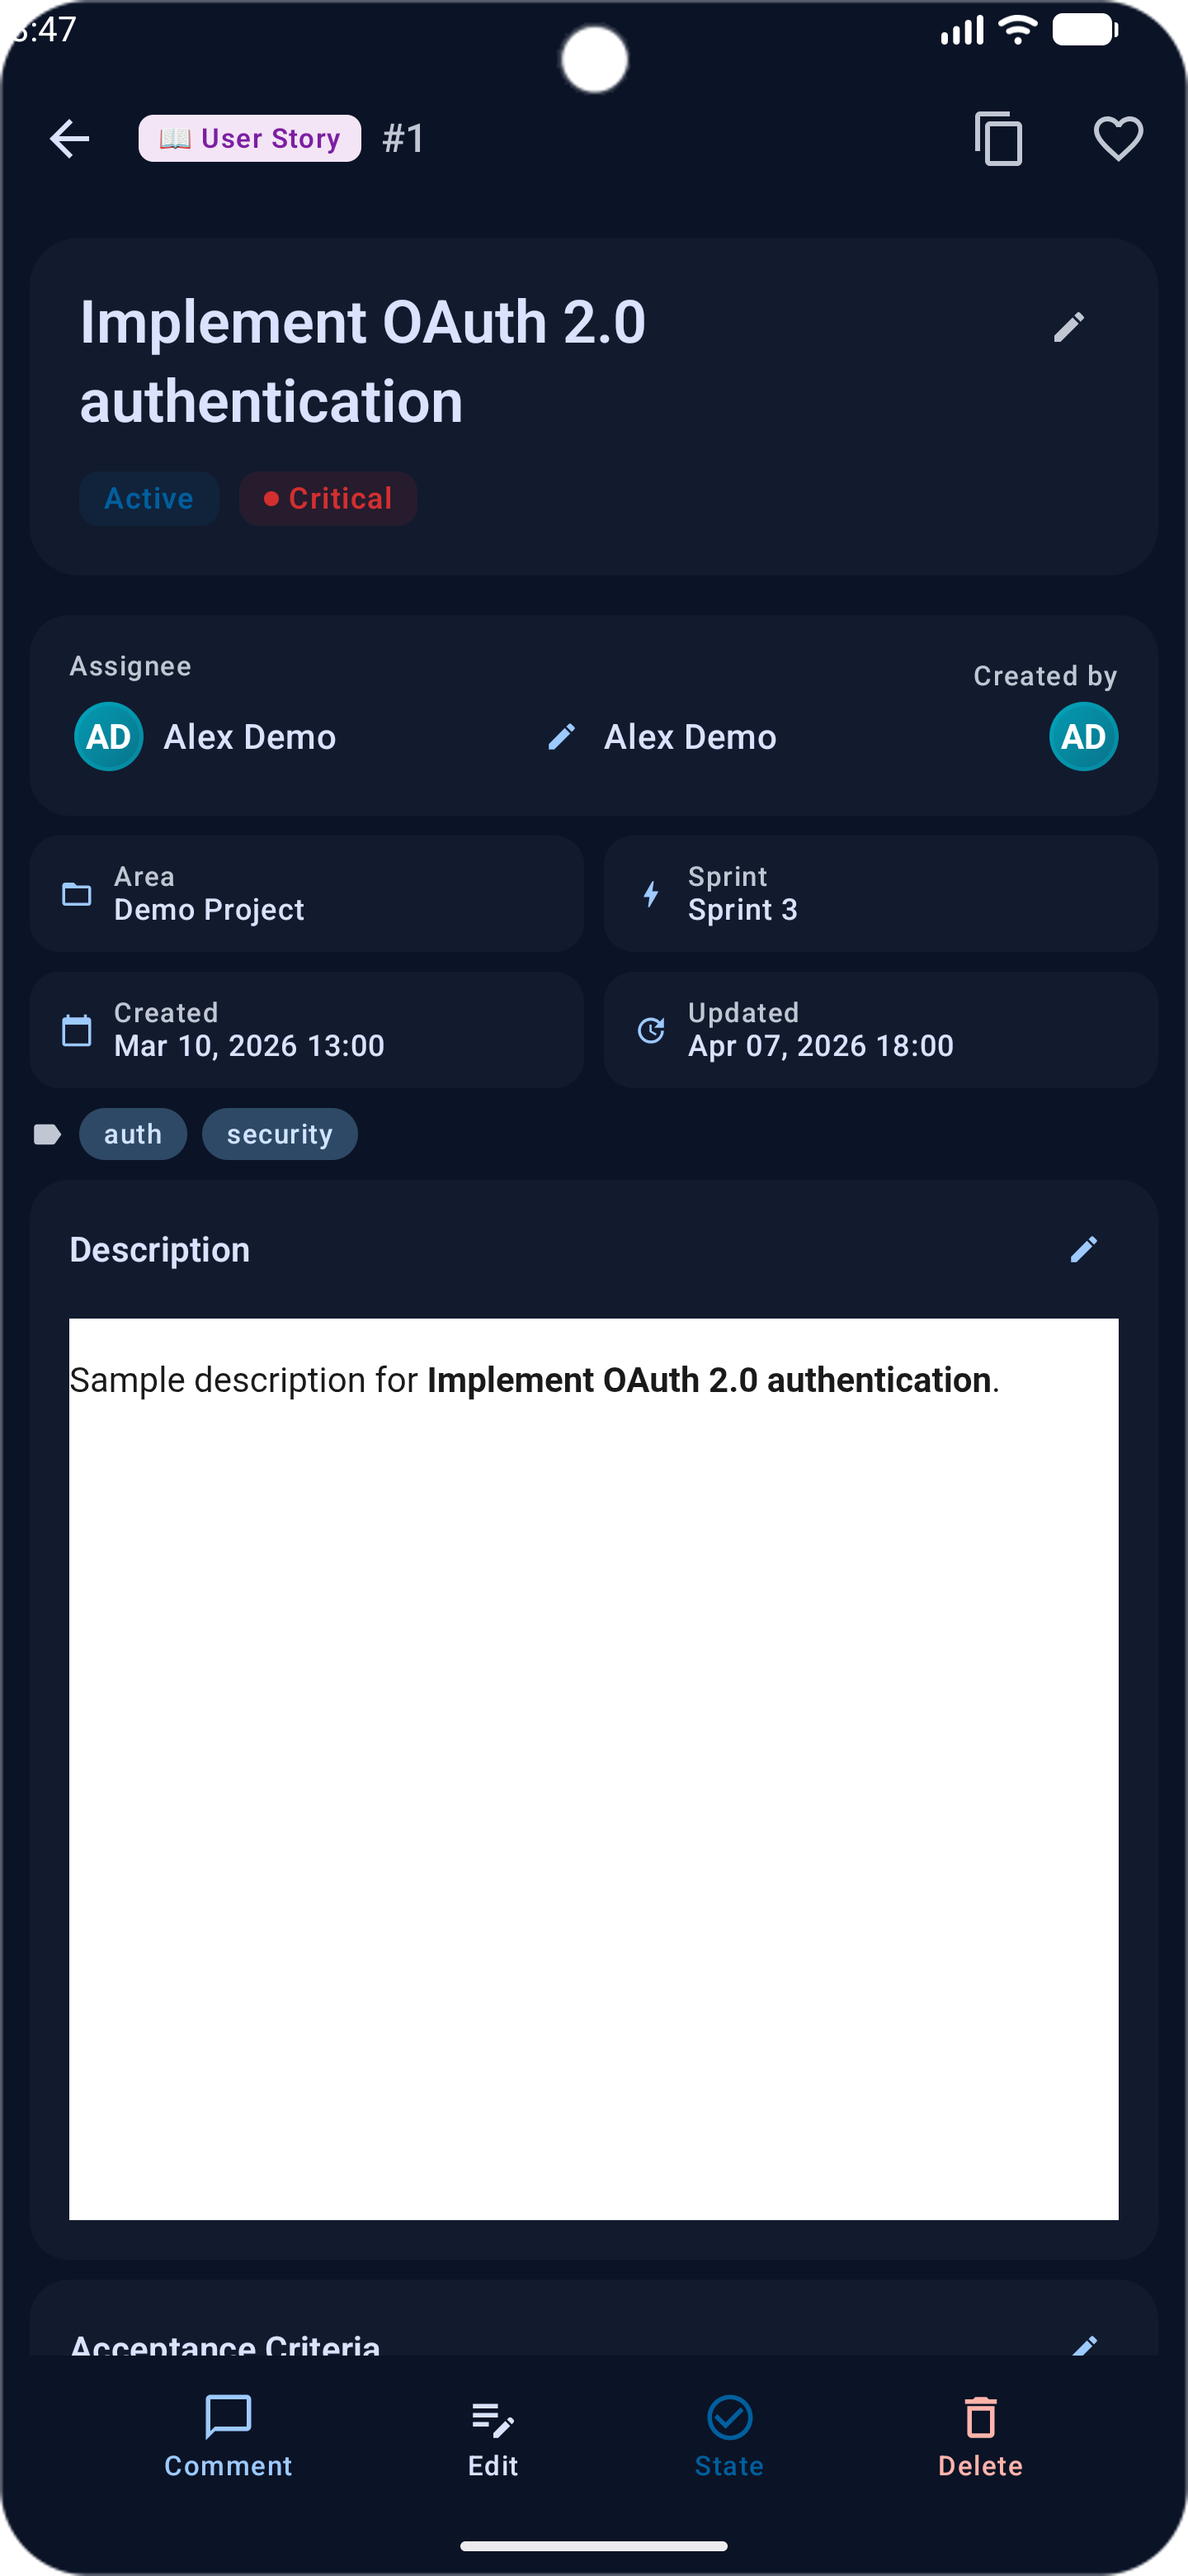
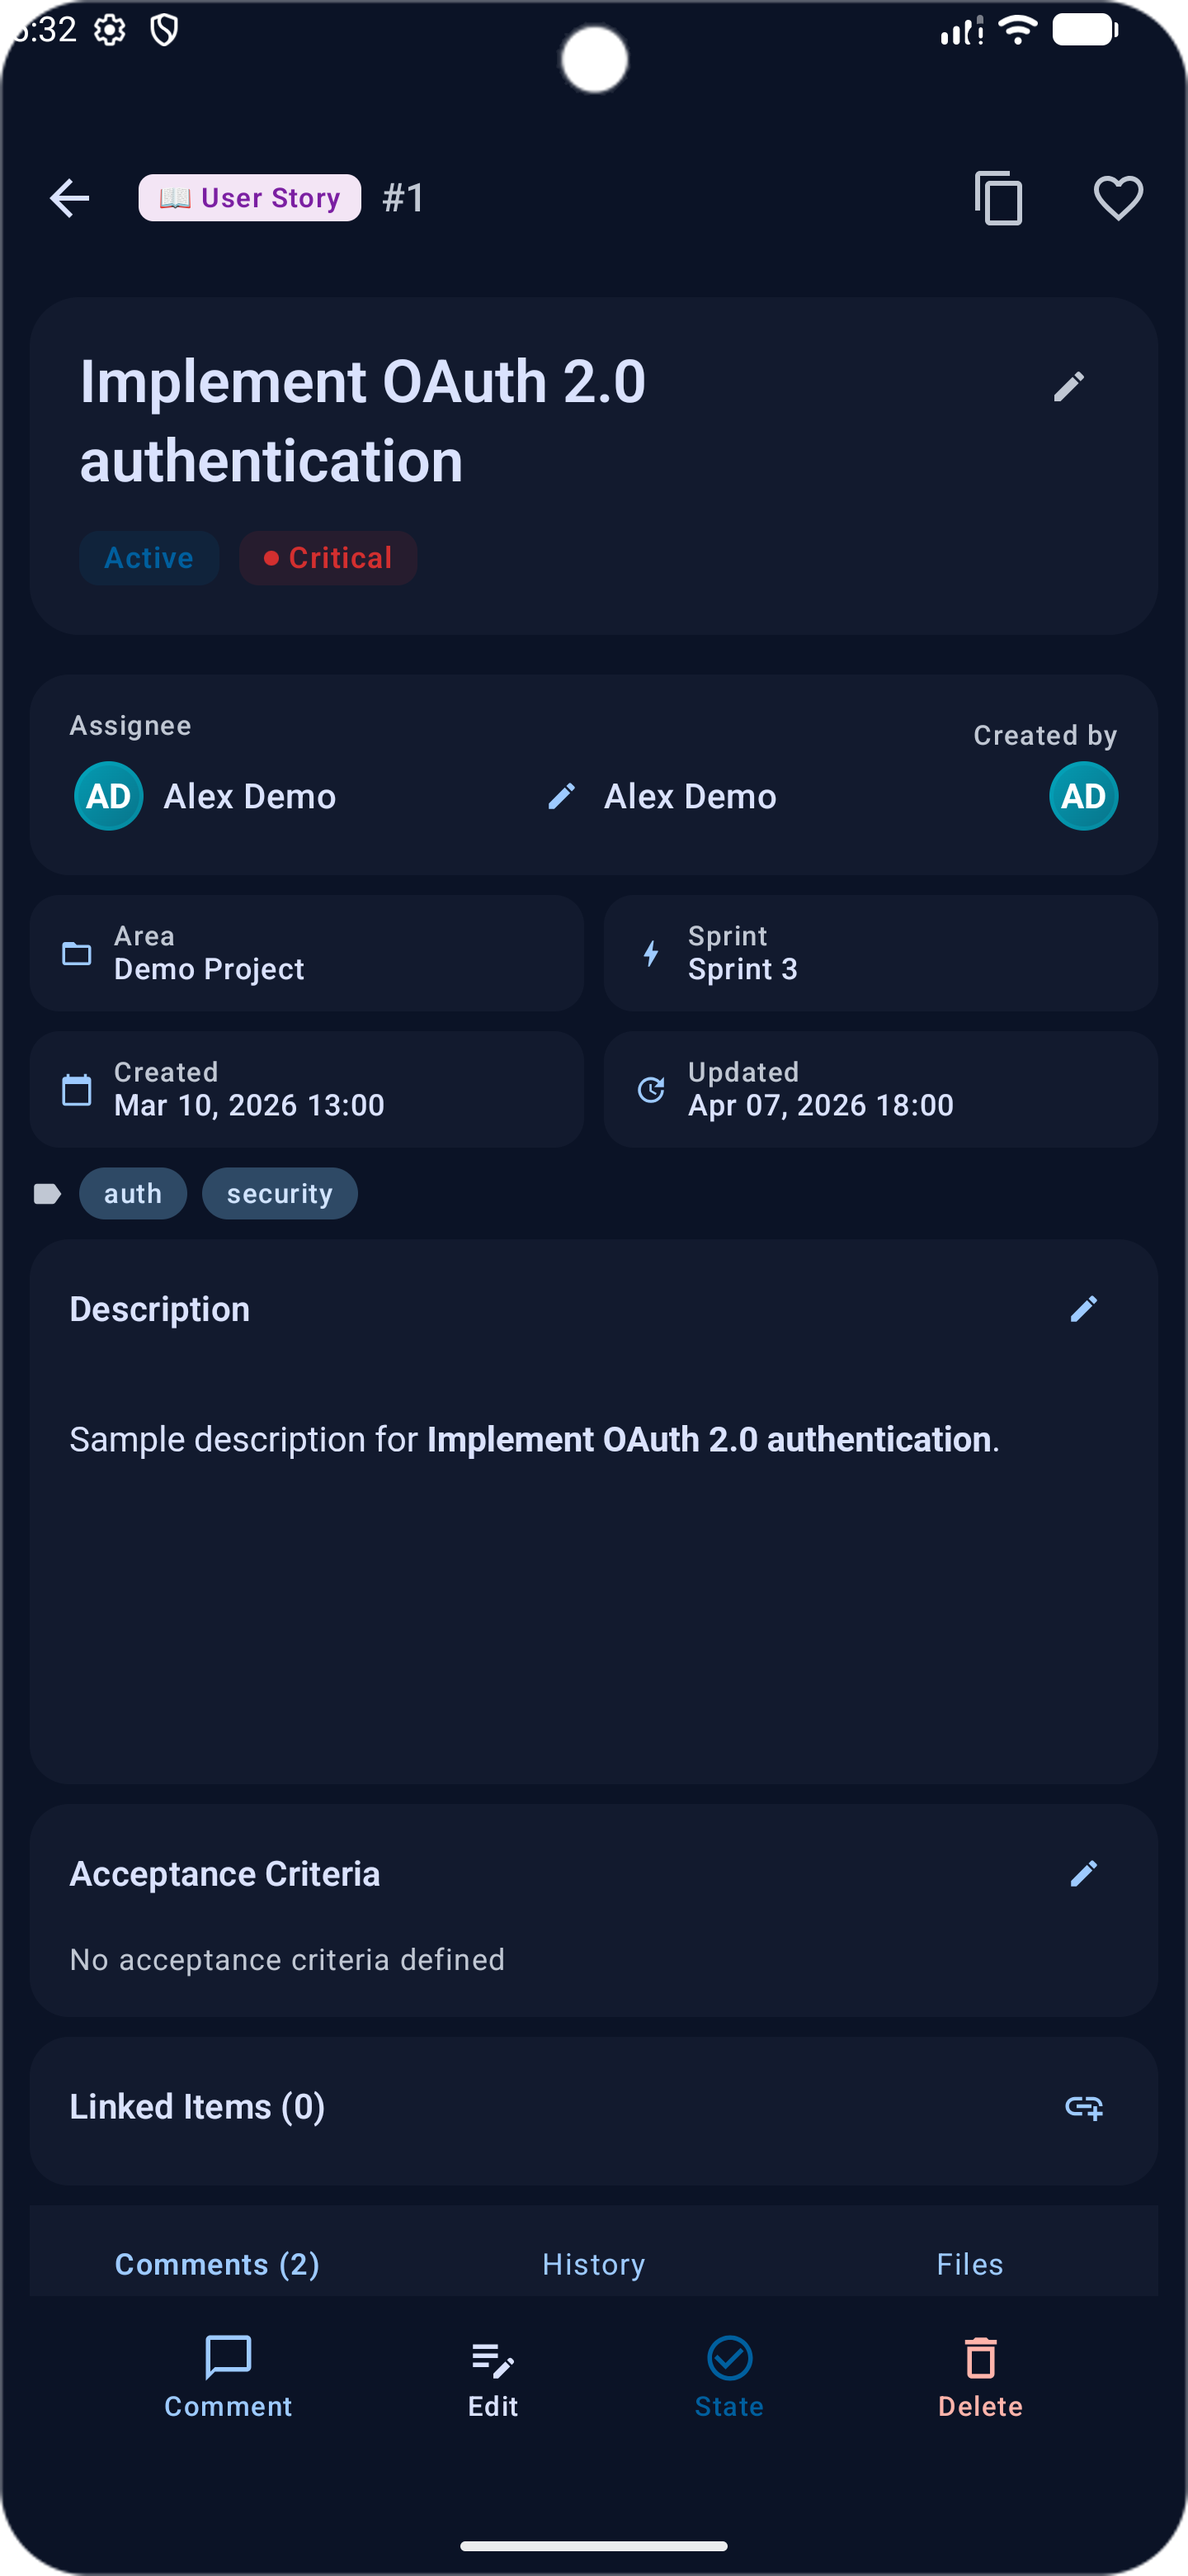
Improve website SEO and screenshots

diff --git a/index.html b/index.html
@@ -3,21 +3,20 @@
 <head>
   <meta charset="UTF-8" />
   <meta name="viewport" content="width=device-width, initial-scale=1.0" />
-  <title>DevFlow — Azure DevOps Client for Android</title>
+  <title>DevFlow — Azure DevOps App for Android</title>
   <link rel="canonical" href="https://zhudeks.github.io/devflow-app/" />
   <link rel="icon" type="image/png" href="assets/logo.png" />
 
   <!-- Primary meta -->
-  <meta name="description" content="DevFlow is the full-featured Android app for Azure DevOps. Manage work items, pipelines, repos, pull requests, test cases and wikis — all native, all offline-capable. Free on Google Play." />
-  <meta name="keywords" content="azure devops android app, ado mobile client, devops android, azure devops app, azure devops mobile, ado android" />
+  <meta name="description" content="Manage Azure DevOps work items, pipelines, repositories, pull requests and test cases on Android with DevFlow. Download free on Google Play." />
   <meta name="robots" content="index, follow" />
   <meta name="author" content="DevFlow" />
 
   <!-- Open Graph -->
   <meta property="og:type" content="website" />
   <meta property="og:url" content="https://zhudeks.github.io/devflow-app/" />
-  <meta property="og:title" content="DevFlow — Azure DevOps Client for Android" />
-  <meta property="og:description" content="DevFlow is the full-featured Android app for Azure DevOps. Manage work items, pipelines, repos, pull requests, test cases and wikis — all native, all offline-capable." />
+  <meta property="og:title" content="DevFlow — Azure DevOps App for Android" />
+  <meta property="og:description" content="Manage Azure DevOps work items, pipelines, repositories, pull requests and test cases on Android with DevFlow. Download free on Google Play." />
   <meta property="og:image" content="https://zhudeks.github.io/devflow-app/assets/screenshots/work-items.png" />
   <meta property="og:image:width" content="1440" />
   <meta property="og:image:height" content="3120" />
@@ -27,9 +26,10 @@
 
   <!-- Twitter Card -->
   <meta name="twitter:card" content="summary_large_image" />
-  <meta name="twitter:title" content="DevFlow — Azure DevOps Client for Android" />
-  <meta name="twitter:description" content="Full-featured native Android app for Azure DevOps. Work items, pipelines, repos, test cases, wikis and more. Free on Google Play." />
+  <meta name="twitter:title" content="DevFlow — Azure DevOps App for Android" />
+  <meta name="twitter:description" content="Manage Azure DevOps work items, pipelines, repositories, pull requests and test cases on Android with DevFlow. Download free on Google Play." />
   <meta name="twitter:image" content="https://zhudeks.github.io/devflow-app/assets/screenshots/work-items.png" />
+  <meta name="twitter:image:alt" content="DevFlow app showing Work Items screen" />
 
   <!-- JSON-LD: SoftwareApplication -->
   <script type="application/ld+json">
@@ -42,28 +42,13 @@
     "downloadUrl": "https://play.google.com/store/apps/details?id=com.devflow.client",
     "operatingSystem": "Android 7.0+",
     "applicationCategory": "DeveloperApplication",
-    "offers": [
-      {
-        "@type": "Offer",
-        "name": "Free",
-        "price": "0",
-        "priceCurrency": "USD"
-      },
-      {
-        "@type": "Offer",
-        "name": "Premium Monthly",
-        "price": "3.99",
-        "priceCurrency": "USD",
-        "billingIncrement": "P1M"
-      },
-      {
-        "@type": "Offer",
-        "name": "Premium Annual",
-        "price": "29.99",
-        "priceCurrency": "USD",
-        "billingIncrement": "P1Y"
-      }
-    ],
+    "offers": {
+      "@type": "Offer",
+      "name": "Free",
+      "price": "0",
+      "priceCurrency": "USD",
+      "url": "https://play.google.com/store/apps/details?id=com.devflow.client"
+    },
     "author": {
       "@type": "Person",
       "name": "Zhudeks Ghazaryan",
@@ -138,12 +123,12 @@
     }
 
     /* ── Scroll fade-in ── */
-    .fade-in {
+    .js-animations .fade-in {
       opacity: 0;
       transform: translateY(24px);
       transition: opacity 0.6s ease, transform 0.6s ease;
     }
-    .fade-in.visible {
+    .js-animations .fade-in.visible {
       opacity: 1;
       transform: translateY(0);
     }
@@ -182,6 +167,18 @@
     }
     .accordion-content.open {
       max-height: 800px;
+      border-top: 1px solid rgba(255,255,255,0.06);
+      background: rgba(10,126,164,0.035);
+    }
+    .accordion-content > div {
+      padding-top: 0.75rem;
+    }
+    .accordion-content > div > div {
+      min-height: 2.5rem;
+      padding: 0.5rem 0.75rem;
+      border: 1px solid rgba(255,255,255,0.05);
+      border-radius: 0.625rem;
+      background: rgba(255,255,255,0.025);
     }
     .accordion-icon {
       transition: transform 0.3s ease;
@@ -266,6 +263,9 @@
       display: block;
     }
   </style>
+  <noscript>
+    <style>.accordion-content { max-height: none; }</style>
+  </noscript>
 </head>
 <body>
 
@@ -319,6 +319,7 @@
   </div>
 </nav>
 
+<main>
 
 <!-- ════════════════════════════════════
      HERO
@@ -366,7 +367,8 @@
     <!-- Right: Real screenshot -->
     <div class="fade-in fade-in-delay-2 flex justify-center lg:justify-end">
       <img src="assets/screenshots/work-items.png"
-       alt="DevFlow Azure DevOps Android app — Work Items screen"
+           alt="DevFlow Azure DevOps Android app — Work Items screen"
+           width="1440" height="3120" fetchpriority="high"
            class="w-60 sm:w-72 rounded-3xl shadow-2xl border-2 border-white/10 object-cover" />
     </div>
   </div>
@@ -669,7 +671,7 @@
 
   <div class="max-w-6xl mx-auto px-4">
     <div class="text-center mb-16 fade-in">
-      <h2 class="text-3xl sm:text-4xl font-extrabold mb-4">See it in action</h2>
+      <h2 class="text-3xl sm:text-4xl font-extrabold mb-4">DevFlow Android app screenshots</h2>
       <p class="text-slate-400">A tour of DevFlow's most-used screens — all Aero Flux dark theme.</p>
     </div>
   </div>
@@ -692,6 +694,7 @@
                style="background: radial-gradient(ellipse at center, rgba(10,126,164,0.35), transparent 70%);"></div>
           <img src="assets/screenshots/work-items.png"
                alt="DevFlow Azure DevOps Android app — Work Items list"
+               width="1440" height="3120" loading="lazy"
                class="relative w-48 sm:w-52 rounded-3xl shadow-2xl border-2 border-white/10 object-cover transition-transform duration-300 group-hover:-translate-y-2" />
         </div>
         <p class="text-center text-xs text-slate-500 mt-4 font-medium tracking-wide uppercase">Work Items</p>
@@ -704,6 +707,7 @@
                style="background: radial-gradient(ellipse at center, rgba(10,126,164,0.35), transparent 70%);"></div>
           <img src="assets/screenshots/work-item-detail.png"
                alt="DevFlow Azure DevOps Android app — Work Item detail with comments"
+               width="1440" height="3120" loading="lazy"
                class="relative w-48 sm:w-52 rounded-3xl shadow-2xl border-2 border-white/10 object-cover transition-transform duration-300 group-hover:-translate-y-2" />
         </div>
         <p class="text-center text-xs text-slate-500 mt-4 font-medium tracking-wide uppercase">Work Item Detail</p>
@@ -716,6 +720,7 @@
                style="background: radial-gradient(ellipse at center, rgba(10,126,164,0.35), transparent 70%);"></div>
           <img src="assets/screenshots/kanban.png"
                alt="DevFlow Azure DevOps Android app — Kanban board"
+               width="1440" height="3120" loading="lazy"
                class="relative w-48 sm:w-52 rounded-3xl shadow-2xl border-2 border-white/10 object-cover transition-transform duration-300 group-hover:-translate-y-2" />
         </div>
         <p class="text-center text-xs text-slate-500 mt-4 font-medium tracking-wide uppercase">Kanban Board</p>
@@ -728,6 +733,7 @@
                style="background: radial-gradient(ellipse at center, rgba(10,126,164,0.35), transparent 70%);"></div>
           <img src="assets/screenshots/pipeline.png"
                alt="DevFlow Azure DevOps Android app — Pipeline monitor"
+               width="1440" height="3120" loading="lazy"
                class="relative w-48 sm:w-52 rounded-3xl shadow-2xl border-2 border-white/10 object-cover transition-transform duration-300 group-hover:-translate-y-2" />
         </div>
         <p class="text-center text-xs text-slate-500 mt-4 font-medium tracking-wide uppercase">Pipeline Monitor</p>
@@ -740,6 +746,7 @@
                style="background: radial-gradient(ellipse at center, rgba(10,126,164,0.35), transparent 70%);"></div>
           <img src="assets/screenshots/repo-diff.png"
                alt="DevFlow Azure DevOps Android app — Repository diff viewer"
+               width="1440" height="3120" loading="lazy"
                class="relative w-48 sm:w-52 rounded-3xl shadow-2xl border-2 border-white/10 object-cover transition-transform duration-300 group-hover:-translate-y-2" />
         </div>
         <p class="text-center text-xs text-slate-500 mt-4 font-medium tracking-wide uppercase">Diff Viewer</p>
@@ -752,6 +759,7 @@
                style="background: radial-gradient(ellipse at center, rgba(10,126,164,0.35), transparent 70%);"></div>
           <img src="assets/screenshots/burndown.png"
                alt="DevFlow Azure DevOps Android app — Sprint burndown chart"
+               width="1440" height="3120" loading="lazy"
                class="relative w-48 sm:w-52 rounded-3xl shadow-2xl border-2 border-white/10 object-cover transition-transform duration-300 group-hover:-translate-y-2" />
         </div>
         <p class="text-center text-xs text-slate-500 mt-4 font-medium tracking-wide uppercase">Sprint Burndown</p>
@@ -764,9 +772,23 @@
                style="background: radial-gradient(ellipse at center, rgba(10,126,164,0.35), transparent 70%);"></div>
           <img src="assets/screenshots/pull-request.png"
                alt="DevFlow Azure DevOps Android app — Pull Request creation"
+               width="1440" height="3120" loading="lazy"
                class="relative w-48 sm:w-52 rounded-3xl shadow-2xl border-2 border-white/10 object-cover transition-transform duration-300 group-hover:-translate-y-2" />
         </div>
         <p class="text-center text-xs text-slate-500 mt-4 font-medium tracking-wide uppercase">Pull Requests</p>
+      </div>
+
+      <!-- Test Cases -->
+      <div class="screenshot-item lg:col-span-1 flex flex-col items-center">
+        <div class="relative group">
+          <div class="absolute -inset-2 rounded-[2.5rem] opacity-0 group-hover:opacity-100 transition-opacity duration-500"
+               style="background: radial-gradient(ellipse at center, rgba(10,126,164,0.35), transparent 70%);"></div>
+          <img src="assets/screenshots/test-cases.png"
+               alt="DevFlow Azure DevOps Android app — Test Case detail with steps"
+               width="1440" height="3120" loading="lazy"
+               class="relative w-48 sm:w-52 rounded-3xl shadow-2xl border-2 border-white/10 object-cover transition-transform duration-300 group-hover:-translate-y-2" />
+        </div>
+        <p class="text-center text-xs text-slate-500 mt-4 font-medium tracking-wide uppercase">Test Cases</p>
       </div>
 
     </div><!-- /screenshots-track -->
@@ -1023,6 +1045,7 @@
   </div>
 </section>
 
+</main>
 
 <!-- ════════════════════════════════════
      FOOTER
@@ -1079,16 +1102,19 @@
   }
 
   // ── Scroll fade-in (Intersection Observer) ──
-  const fadeEls = document.querySelectorAll('.fade-in');
-  const io = new IntersectionObserver((entries) => {
-    entries.forEach(e => {
-      if (e.isIntersecting) {
-        e.target.classList.add('visible');
-        io.unobserve(e.target);
-      }
-    });
-  }, { threshold: 0.1 });
-  fadeEls.forEach(el => io.observe(el));
+  if ('IntersectionObserver' in window) {
+    const fadeEls = document.querySelectorAll('.fade-in');
+    const io = new IntersectionObserver((entries) => {
+      entries.forEach(e => {
+        if (e.isIntersecting) {
+          e.target.classList.add('visible');
+          io.unobserve(e.target);
+        }
+      });
+    }, { threshold: 0.1 });
+    document.documentElement.classList.add('js-animations');
+    fadeEls.forEach(el => io.observe(el));
+  }
 
   // ── Accordion ──
   document.querySelectorAll('.accordion-btn').forEach(btn => {

diff --git a/plan.md b/plan.md
@@ -98,7 +98,7 @@ Grouped into categories. Collapsed by default, expand with "See all features" bu
 ---
 
 ### 2.6 — Screenshots / App Showcase
-- Horizontal scroll strip of phone mockups (5–7 screens)
+- Horizontal scroll strip of phone mockups (8 screens)
 - Suggested screens to show:
   1. Work Items list (dark theme)
   2. Work Item detail with comments
@@ -107,6 +107,7 @@ Grouped into categories. Collapsed by default, expand with "See all features" bu
   5. Repo diff viewer
   6. Sprint burndown chart
   7. Pull Request creation
+  8. Test Case detail with steps
 - Auto-scroll carousel on mobile, static grid on desktop
 
 ---
@@ -179,7 +180,7 @@ devflow-app/                        ← GitHub repo root (separate repo)
 - [x] **Step 3** — Build Navbar + Hero section
 - [x] **Step 4** — Stats bar + Feature cards grid
 - [x] **Step 5** — Full feature accordion
-- [x] **Step 6** — Screenshots carousel (7 real screenshots, gradient background, hover glow)
+- [x] **Step 6** — Screenshots carousel (8 real screenshots, gradient background, hover glow)
 - [x] **Step 7** — Auth/Security + Tech stack sections
 - [x] **Step 8** — Download CTA + Footer (Privacy Policy, Google Play, GitHub, Contact)
 - [x] **Step 9** — Add real screenshots + logo (`assets/screenshots/`, `assets/logo.png`)
@@ -197,7 +198,7 @@ devflow-app/                        ← GitHub repo root (separate repo)
 
 ## 6. Assets Needed
 
-- [x] App screenshots — 7 real screenshots added (`assets/screenshots/`)
+- [x] App screenshots — 8 real screenshots added (`assets/screenshots/`)
 - [x] DevFlow logo — `assets/logo.png` (512×512)
 - [ ] OG preview image (1200×630 px) — currently using work-items.png as fallback
 - [x] Google Play badge — inline SVG used directly in HTML

diff --git a/README.md b/README.md
@@ -21,7 +21,9 @@ https://zhudeks.github.io/devflow-app
  |       +-  repo-diff.png
  |       +-  burndown.png
  |       +-  pull-request.png
+ |       +-  test-cases.png
  +-  README.md
+-  sitemap.xml      <- canonical page URL for search engines
 +-  plan.md
 ```
 
@@ -32,7 +34,7 @@ https://zhudeks.github.io/devflow-app
 3. Stats Bar (40+ screens, 20+ API areas, Android 7+)
 4. Feature Highlights (6 cards)
 5. Full Feature Accordion (8 categories)
-6. Screenshots Carousel (7 real app screenshots)
+6. Screenshots Carousel (8 real app screenshots)
 7. Security Section (OAuth 2.0, PAT, Play Integrity)
 8. Tech Stack Strip
 9. Pricing (Free vs Premium — $3.99/month or $29.99/year)
@@ -44,6 +46,13 @@ https://zhudeks.github.io/devflow-app
 1. Go to repo Settings -> Pages
 2. Source: main branch, folder /
 3. Site live at https://zhudeks.github.io/devflow-app
+
+## Search indexing
+
+After deployment, verify the site in Google Search Console and submit
+`https://zhudeks.github.io/devflow-app/sitemap.xml`. GitHub Pages project sites
+live under a path, so a `robots.txt` in this repository would not be served at
+the hostname root where search engines look for it.
 
 ## Tech
 
